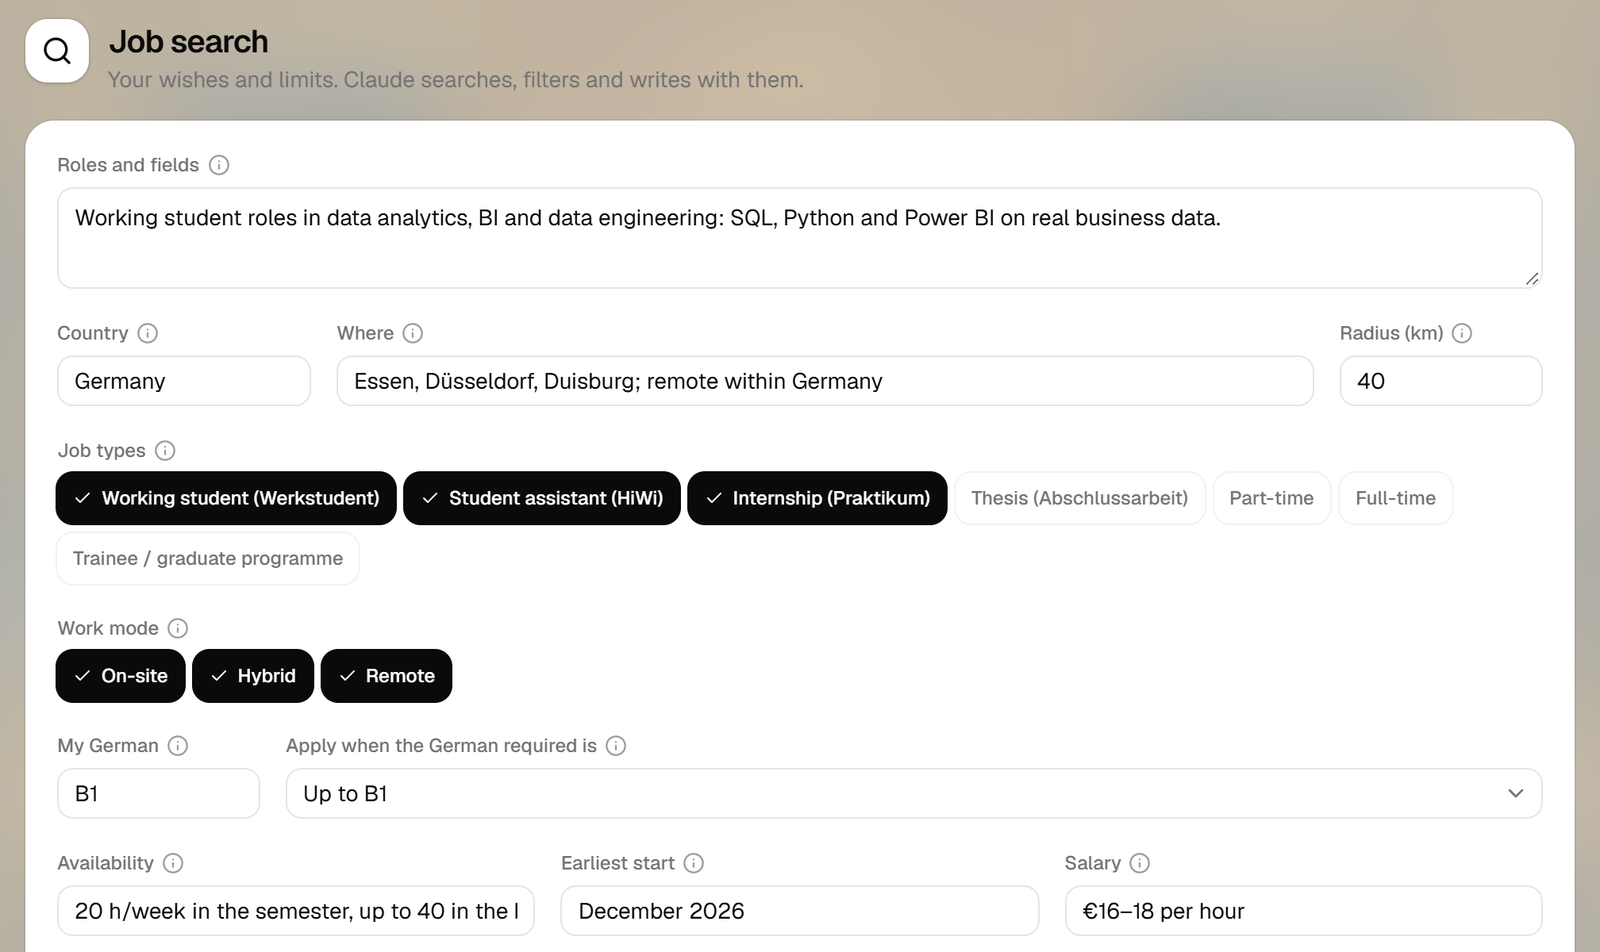
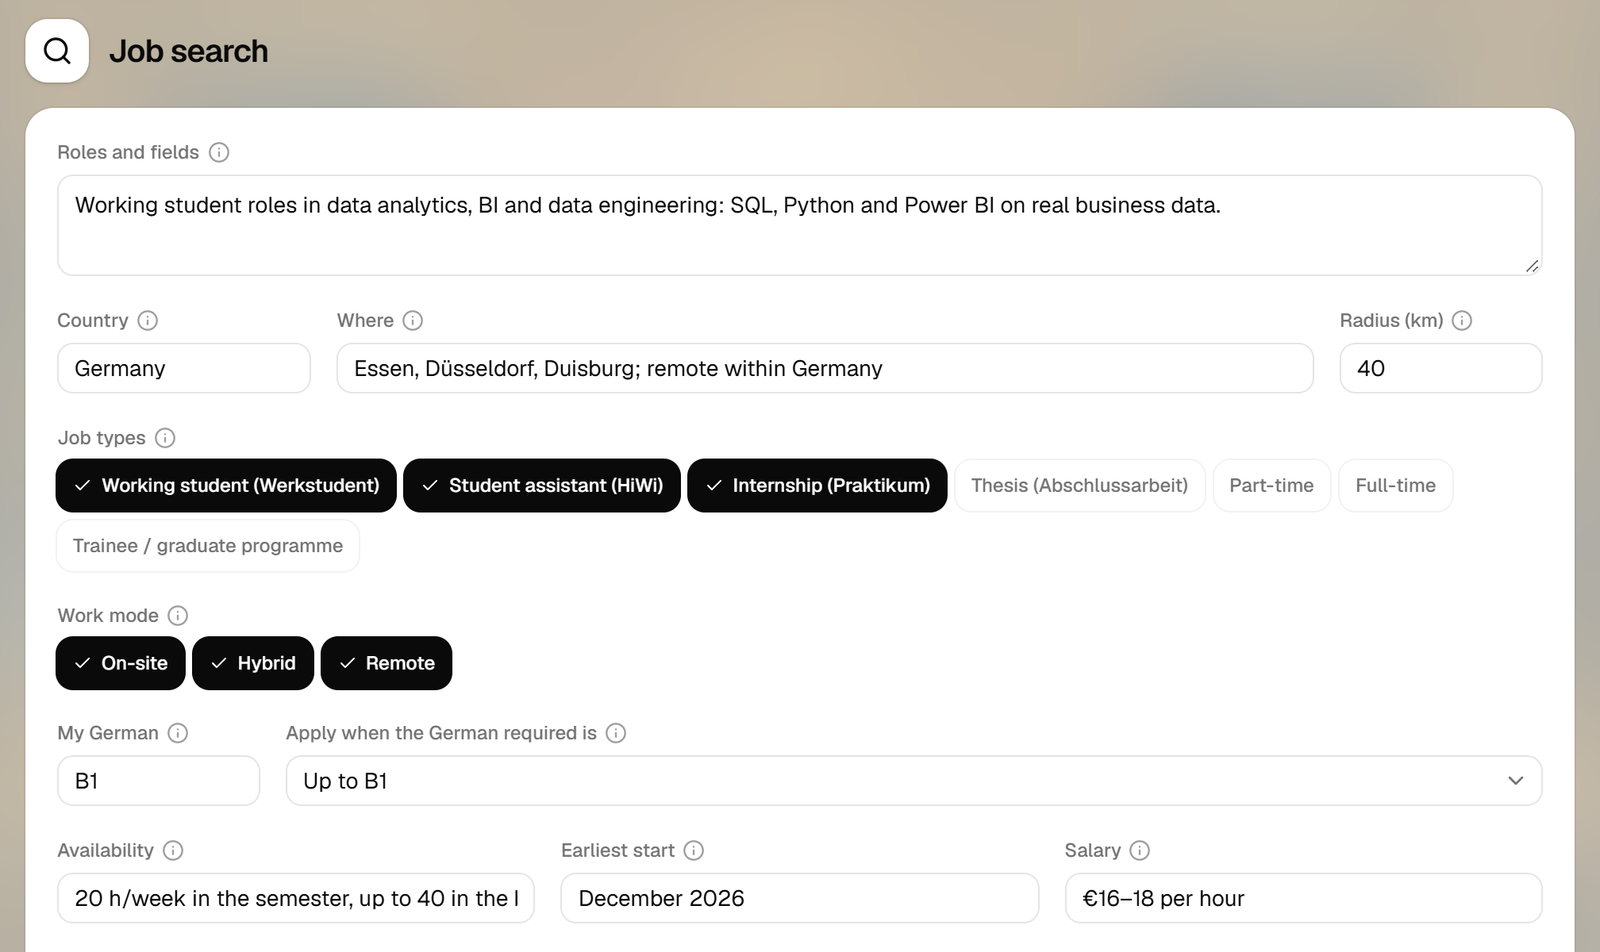
0.1 - Version at the bottom right of every page; pages without explanation lines, the MCP page headed Connect your agent; knowledge base tabs wrap on phones; a test that board columns stay per account; README media re-recorded

diff --git a/src/editor/profile/ProfilePage.tsx b/src/editor/profile/ProfilePage.tsx
@@ -20,17 +20,14 @@ import KnowledgeBase from './KnowledgeBase'
 
 const MODE_LABELS = { onsite: 'On-site', hybrid: 'Hybrid', remote: 'Remote' } as const
 
-function Section({ icon: Icon, title, subtitle, children }: { icon: typeof Search; title: string; subtitle: ReactNode; children: ReactNode }) {
+function Section({ icon: Icon, title, children }: { icon: typeof Search; title: string; children: ReactNode }) {
   return (
     <section>
-      <div className="mb-4 flex items-start gap-3">
+      <div className="mb-4 flex items-center gap-3">
         <div className="bg-card ring-hairline grid size-10 shrink-0 place-items-center rounded-xl shadow-sm ring-1">
           <Icon className="size-5" />
         </div>
-        <div>
-          <h2 className="text-xl font-semibold tracking-tight">{title}</h2>
-          <p className="text-muted-foreground max-w-2xl text-sm">{subtitle}</p>
-        </div>
+        <h2 className="text-xl font-semibold tracking-tight">{title}</h2>
       </div>
       <div className="bg-card ring-hairline rounded-2xl p-4 shadow-[0_1px_2px_rgba(0,0,0,0.04)] ring-1 sm:p-5">{children}</div>
     </section>
@@ -333,8 +330,8 @@ function ClaudeSection({ profile }: { profile: SearchProfile }) {
     <div className="grid gap-4">
       <ol className="text-muted-foreground grid list-decimal gap-1.5 pl-5 text-sm">
         <li>
-          Once: in Claude, <span className="text-foreground">Settings → Connectors → Add custom connector</span>, and paste your connector address
-          below. It is yours alone and works in this account only. Keep it private: it gives full access to your CVs and board.
+          Once: add a custom MCP connector in your agent (in Claude: <span className="text-foreground">Settings → Connectors → Add custom connector</span>)
+          and paste your connector address below. It is yours alone and works in this account only. Keep it private: it gives full access to your CVs and board.
           <ConnectorAddress />
         </li>
         <li>In Claude Desktop, turn on the connector and open the built-in browser (Ctrl+Shift+B). Sign in there once to LinkedIn, Indeed, StepStone, GPTZero and Pangram.</li>
@@ -365,32 +362,19 @@ function ClaudeSection({ profile }: { profile: SearchProfile }) {
 }
 
 export const PANELS = {
-  jobsearch: {
-    icon: Search,
-    label: 'Job search',
-    subtitle: 'Your wishes and limits. Claude searches, filters and writes with them.',
-  },
-  knowledge: {
-    icon: Library,
-    label: 'Knowledge base',
-    subtitle:
-      'Everything beyond your master CV: projects, skills, experience, certificates and facts. Tailored CVs and letters pick from it; nothing here goes on a CV as-is.',
-  },
-  mcp: {
-    icon: Bot,
-    label: 'MCP',
-    subtitle: 'Connect Claude Desktop or another AI client to this site (MCP connector) to find jobs and prepare drafts.',
-  },
-} satisfies Record<PanelPage, { icon: typeof Search; label: string; subtitle: string }>
+  jobsearch: { icon: Search, label: 'Job search', heading: 'Job search' },
+  knowledge: { icon: Library, label: 'Knowledge base', heading: 'Knowledge base' },
+  mcp: { icon: Bot, label: 'MCP', heading: 'Connect your agent' },
+} satisfies Record<PanelPage, { icon: typeof Search; label: string; heading: string }>
 
 /** One of the three panels about you: job search, knowledge base or MCP. */
 export default function ProfilePage({ panel }: { panel: PanelPage }) {
   const profile = useEditor((s) => s.searchProfile)
-  const { icon, label, subtitle } = PANELS[panel]
+  const { icon, heading } = PANELS[panel]
   return (
     <div className="flex-1 overflow-y-auto">
       <div className="mx-auto flex max-w-5xl flex-col px-4 py-8 sm:px-6">
-        <Section icon={icon} title={label} subtitle={subtitle}>
+        <Section icon={icon} title={heading}>
           {panel === 'jobsearch' && profile && <SearchProfileForm profile={profile} />}
           {panel === 'knowledge' && <KnowledgeBase />}
           {panel === 'mcp' && profile && <ClaudeSection profile={profile} />}

diff --git a/src/editor/profile/KnowledgeBase.tsx b/src/editor/profile/KnowledgeBase.tsx
@@ -57,14 +57,17 @@ export default function KnowledgeBase() {
   if (!library) return null
   return (
     <Tabs defaultValue="projects">
-      <TabsList className="mb-4 flex-wrap">
+      {/* Wraps on phones: the bar grows with its rows instead of keeping one row's height. */}
+      <TabsList className="mb-4 h-auto! max-w-full flex-wrap justify-start">
         {LIBRARY_TABS.map((t) => (
-          <TabsTrigger key={t.key} value={t.key}>
+          <TabsTrigger key={t.key} value={t.key} className="h-7 flex-none">
             {t.label}
             <span className="text-muted-foreground ml-1 text-xs tabular-nums">{library[t.key].length}</span>
           </TabsTrigger>
         ))}
-        <TabsTrigger value="notes">Notes &amp; knowledge</TabsTrigger>
+        <TabsTrigger value="notes" className="h-7 flex-none">
+          Notes &amp; knowledge
+        </TabsTrigger>
       </TabsList>
       {LIBRARY_TABS.map((t) => (
         <TabsContent key={t.key} value={t.key}>
@@ -72,10 +75,6 @@ export default function KnowledgeBase() {
         </TabsContent>
       ))}
       <TabsContent value="notes">
-        <p className="text-muted-foreground mb-2 text-sm">
-          Anything true about you that is not on your master CV: courses and university projects, results with numbers per job, tools you
-          have used, languages, volunteering, context. The writers may quote it on CVs and letters, so keep it factual.
-        </p>
         <RichTextarea
           value={library.notes}
           minRows={10}

diff --git a/tests/api.test.ts b/tests/api.test.ts
@@ -154,6 +154,18 @@ describe('accounts never see each other\'s data', () => {
     expect(((await (await call('/api/library', { as: 'bob' })).json()) as { notes: string }).notes).toBe('')
   })
 
+  it('board columns', async () => {
+    const add = (as: string, label: string) =>
+      call('/api/board-columns', { method: 'PUT', as, json: { columns: [{ id: `col_applied_${as}1`, label }] } })
+    expect((await add('bob', 'Phone screen')).status).toBe(200)
+    const columns = async (as: string) => ((await (await call('/api/board-columns', { as })).json()) as { label: string }[]).map((c) => c.label)
+    expect(await columns('alice')).toEqual([])
+    expect(await columns('bob')).toEqual(['Phone screen'])
+    await add('alice', 'Take-home task')
+    expect(await columns('alice')).toEqual(['Take-home task'])
+    expect(await columns('bob')).toEqual(['Phone screen'])
+  })
+
   it('print tokens only open the CV of the account they were signed for', async () => {
     const own = await call(`/api/print-data?id=${aliceCv}&token=${encodeURIComponent(await signPrintToken(env, 'alice', aliceCv))}`)
     expect(own.status).toBe(200)

diff --git a/src/editor/applications/ApplicationsPage.tsx b/src/editor/applications/ApplicationsPage.tsx
@@ -96,11 +96,11 @@ export default function ApplicationsPage({ appId }: { appId: string | null }) {
       <div className="mx-auto flex w-full max-w-[1600px] flex-wrap items-end gap-3 px-4 pt-6 pb-4 sm:px-6">
         <div className="mr-auto">
           <h1 className="text-2xl font-semibold tracking-tight">Applications</h1>
-          <p className="text-muted-foreground text-sm">
-            {items.length
-              ? `${items.length} tracked · ${drafts} to review · ${active} in progress. Drag cards between stages, click one for details.`
-              : 'Every job you apply to, from “Saved” to “Offer”.'}
-          </p>
+          {items.length > 0 && (
+            <p className="text-muted-foreground text-sm">
+              {items.length} tracked · {drafts} to review · {active} in progress
+            </p>
+          )}
         </div>
         {items.length > 0 && (
           <div className="relative w-full sm:w-56">

diff --git a/src/editor/EditorRoot.tsx b/src/editor/EditorRoot.tsx
@@ -3,6 +3,7 @@ import { Backdrop } from '@/components/Backdrop'
 import { Toaster } from '@/components/ui/sonner'
 import { TooltipProvider } from '@/components/ui/tooltip'
 import { api, type DemoSession } from '@/lib/api'
+import { VERSION } from '@shared/version'
 import Editor from './Editor'
 import Login, { type LoginMode } from './Login'
 import { navigate } from './router'
@@ -77,6 +78,9 @@ export default function EditorRoot() {
       {auth === 'out' && joinCode === null && <Login mode={mode} onSuccess={signedIn} demoAvailable={demoAvailable} />}
       {inEditor && <Editor onLogout={signedOut} user={user} demo={demo} />}
       <Toaster position="bottom-center" richColors closeButton />
+      <span className="text-foreground pointer-events-none fixed right-2 bottom-1 z-50 text-[10px] tabular-nums opacity-35 select-none print:hidden" aria-hidden>
+        v{VERSION}
+      </span>
     </TooltipProvider>
   )
 }

diff --git a/worker/mcp.ts b/worker/mcp.ts
@@ -58,6 +58,7 @@ import {
   type TailorJob,
 } from './service'
 import { corpusOf, systemPrompt, TAILOR_SCHEMA, tailoringMaterial, type TailorOutput } from './tailor'
+import { VERSION } from '@shared/version'
 
 /**
  * MCP server (Streamable HTTP, stateless JSON responses) so an agent such as Claude Desktop can run the job
@@ -1987,7 +1988,7 @@ async function dispatch(env: Env, msg: RpcRequest, origin: string): Promise<unkn
       return {
         protocolVersion: typeof msg.params?.protocolVersion === 'string' ? msg.params.protocolVersion : PROTOCOL,
         capabilities: { tools: { listChanged: false }, prompts: { listChanged: false } },
-        serverInfo: { name: 'sforza', title: 'Sforza', version: '1.1.0' },
+        serverInfo: { name: 'sforza', title: 'Sforza', version: VERSION },
         instructions: INSTRUCTIONS,
       }
     case 'ping':

diff --git a/src/editor/overview/Overview.tsx b/src/editor/overview/Overview.tsx
@@ -47,9 +47,6 @@ export default function Overview() {
           <div className="mb-4 flex flex-wrap items-end justify-between gap-3">
             <div>
               <h1 className="text-2xl font-semibold tracking-tight">My CVs</h1>
-              <p className="text-muted-foreground text-sm">
-                The CV marked <Star className="inline size-3.5 fill-amber-400 text-amber-400" /> is your main CV: the default for downloads and new tailored CVs.
-              </p>
             </div>
             <Button onClick={newTailored} className="gap-2">
               <Plus /> New tailored CV

diff --git a/shared/version.ts b/shared/version.ts
@@ -1,0 +1,6 @@
+/**
+ * The app's version, shown at the bottom right of every page and sent as the MCP server version.
+ * Most changes append to the last number (0.1 → 0.11 → 0.12 → … → 0.19 → 0.110); a big change starts the next
+ * series (0.2), and only after the owner agreed to it.
+ */
+export const VERSION = '0.1'

diff --git a/README.md b/README.md
@@ -48,7 +48,7 @@ Each CV can have all three.
 
 ## Board
 
-Your own columns between the stages. Drag a card to move it.
+Your own columns between the stages, for your account only. Drag a card to move it.
 
 ![Cards dragged between board columns](.github/readme/board.gif)
 
@@ -65,7 +65,7 @@ Tailored CVs and letters pick from the knowledge base. The MCP prompts are built
 
 ## MCP
 
-Connect Claude Desktop or any MCP client to find jobs and prepare drafts.
+Connect your agent to find jobs and prepare drafts.
 
 ![MCP prompt for one job link](.github/readme/mcp.gif)
 
@@ -94,6 +94,7 @@ Connect Claude Desktop or any MCP client to find jobs and prepare drafts.
 - Works on phones and tablets: two-row top bar, one-column forms, board columns that snap, CV preview on a button
 - Accounts made in the app: invitation links, password change, locking, separate data
 - Optional public demo: each visitor gets a private copy of sample data that deletes itself
+- Version number at the bottom right of every page: 0.1, then 0.11, 0.12 and so on, and 0.2 for a big change
 
 ![My CVs: the master CV and a tailored one with its match score](.github/readme/my-cvs.png)
 
